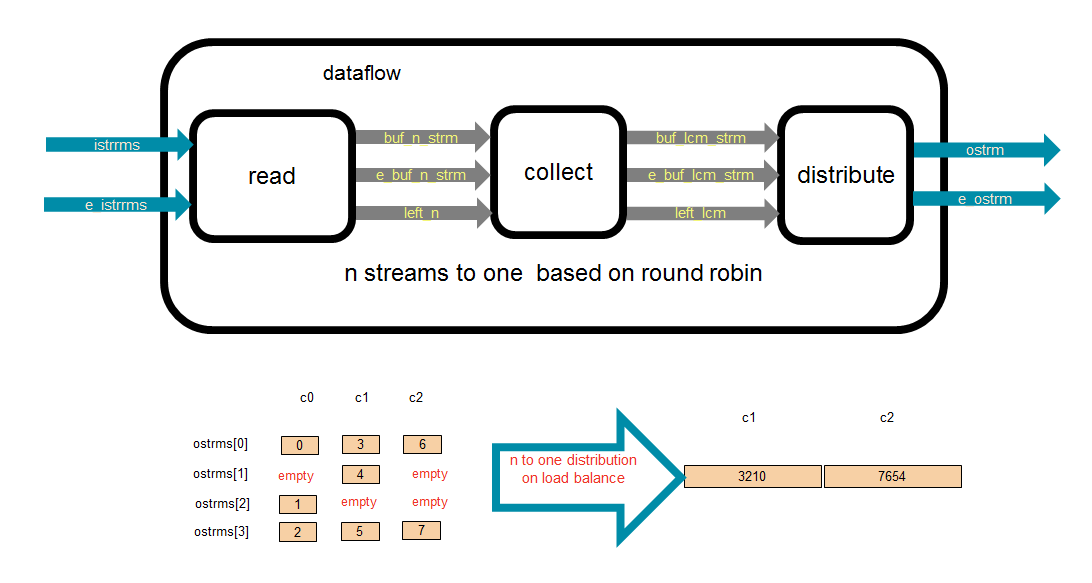
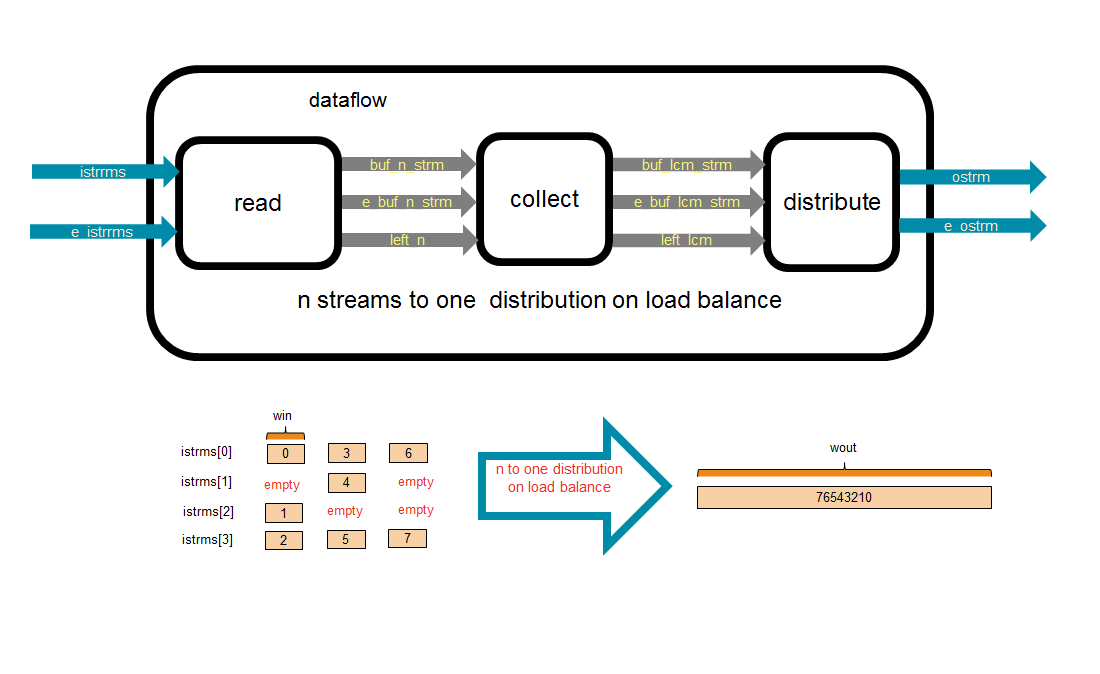
unify the figures in order to understand their difference

Changed region(s): [[0.0311, 0.0617, 0.9652, 0.5866], [0.4359, 0.6175, 0.9029, 0.9262], [0.1557, 0.6175, 0.4048, 0.9262]]

diff --git a/L1/docs/src/guide/stream_n_to_one/load_balance/stream_n_to_one_load_balance.rst b/L1/docs/src/guide/stream_n_to_one/load_balance/stream_n_to_one_load_balance.rst
@@ -32,8 +32,8 @@ implemented as :ref:`stream_n_to_one <cid-xf::common::utils_hw::stream_n_to_one>
    :align: center
 
 The stream_n_to_one distributes the data from  n streams to one stream. Distribution on load balance means it is non-blocking. Compared to stream_n_to_one based on round robin, it skips to read the empty input streams. It also supports different input and output widths. It  gets all input streams' states ahead, then reads  data from not empty streams to a buffer. If the total available bits in buffer is enough, then output a data. 
-For example, n = 4, input width(written as win) =16, output width(written as wout)=64.  
-At c0 cycle,  2# stream is empty,  then read 48bits data from 0#,1# and 3# stream,  no output at this cycle;  at c1 cycle,  1# is empty, read 16bits from 0# stream, then output a 64bits(16+48) data, and store 32 bits data from 2# and 3# stream for output them in the future. In the process, put the data from 0# at c0 on the lowest 16bit in the buffer, and 0# at c1 on the highest 16 bits. 
+For example, n = 4, input width(written as win) =16, output width(written as wout)=128.  
+At c0 cycle,  1# stream is empty,  then read 48bits data from 0#,2# and 3# stream,  no output at this cycle;  at c1 cycle,  2# is empty, read 48bits from 0#, 1# and 3#stream; at c3 cycle, 1# and 2# stream are empty, read 32 bits from 0# and 3# stream, then output them as a data by the output stream because of total read 48+48+32=128 bits data from input streams. In the process, put the data from 0# at c0 on the lowest 16bit in the output data, and 3# at c3 on the highest 16 bits. 
 
 There are Applicable conditions:
 

diff --git a/L1/docs/src/guide/stream_n_to_one/round_robin/stream_n_to_one_round_robin.rst b/L1/docs/src/guide/stream_n_to_one/round_robin/stream_n_to_one_round_robin.rst
@@ -32,6 +32,7 @@ implemented as :ref:`stream_n_to_one <cid-xf::common::utils_hw::stream_n_to_one>
    :align: center
 
 The stream_n_to_one distributes the data from  n streams to one stream.  This primitive supports different input and output width.  In the process, read the input data to a buffer follows  the order: 0#stream, 1#stream, 2#stream, ... , (n-1)#stream, 0#stream, 1#stream, etc while output new data when the total available bits are enough data (up to output width bits).  
+
 For example, n = 4, input width(written as win) =16, output width(written as wout)=64,  the lowest 16 bits in  output data is the data from 0#stream, and the highest 16 bits from 3#stream. 
 When n* win > wout, output times is more than input ones, so read should wait a few cycles sometimes in order to output all buffered data.  
 When n* win < wout, output times is less than input ones, so output should wait a few cycles sometimes in order to read enough data from input streams.  
